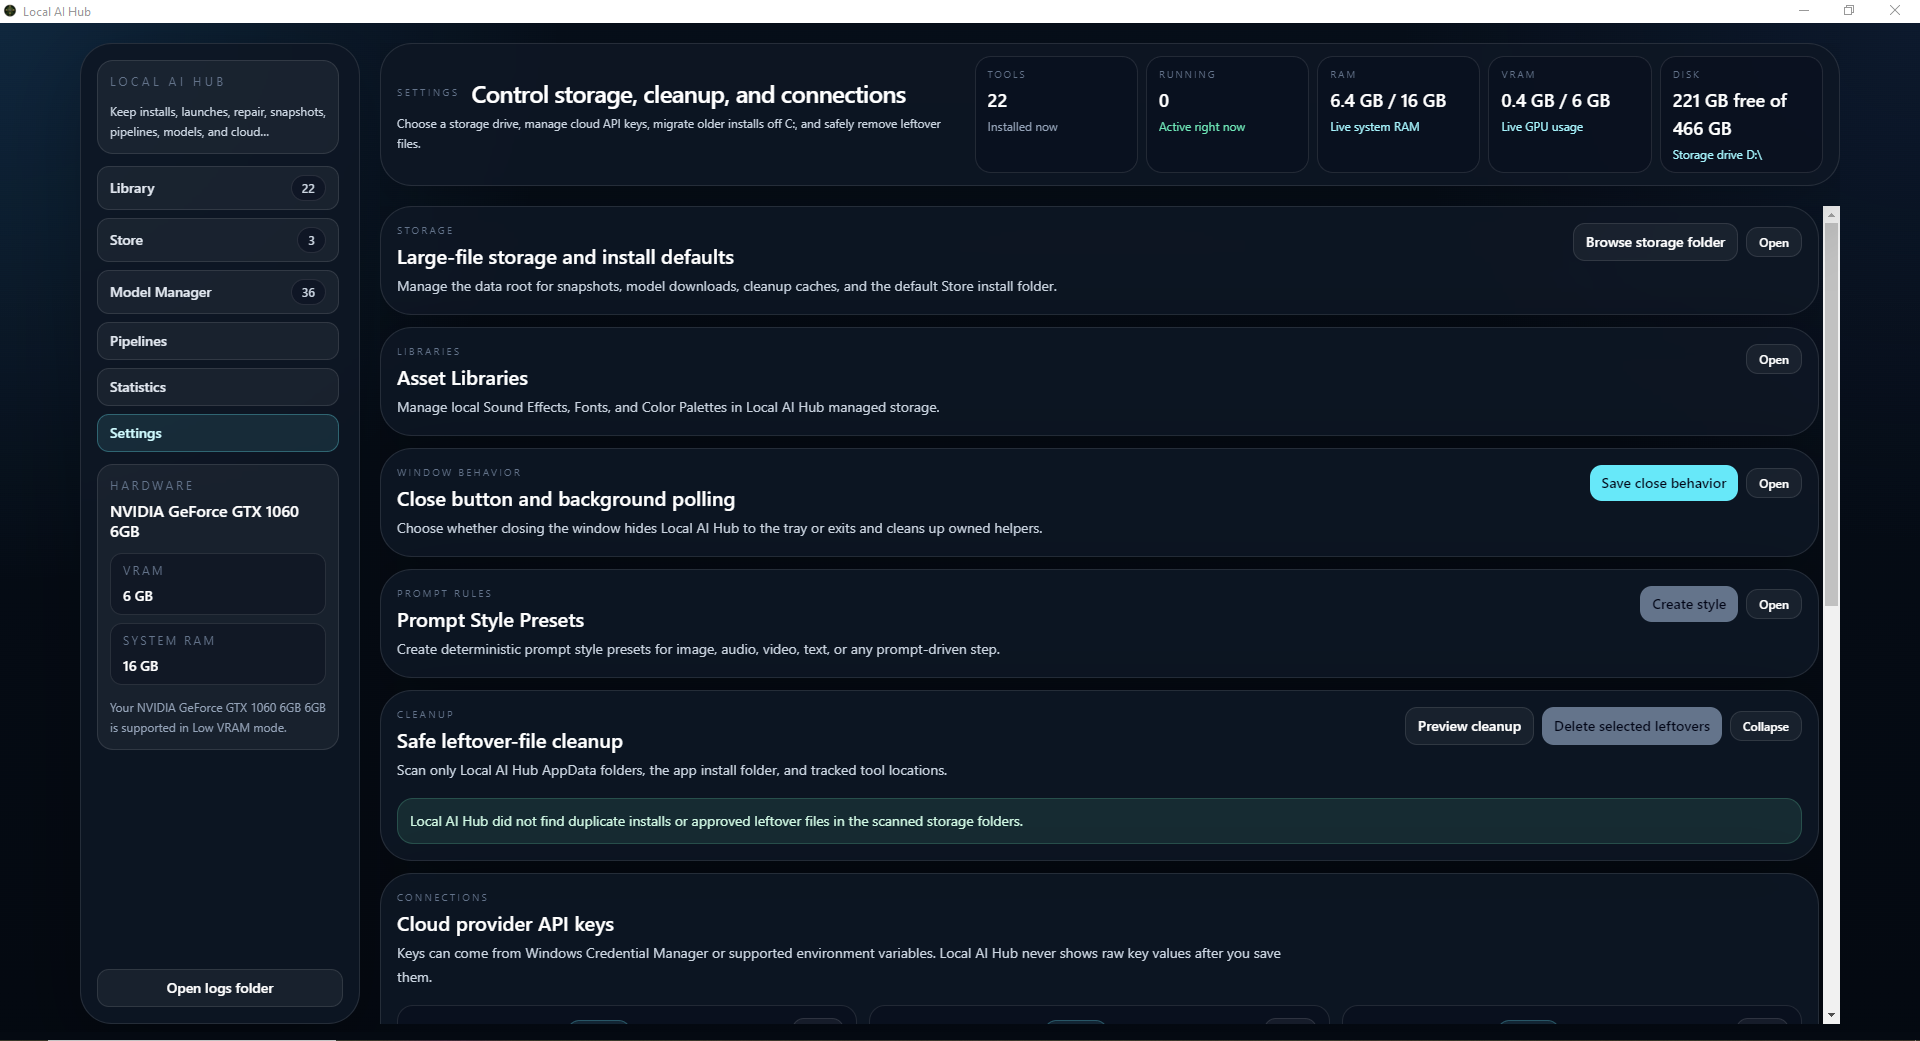
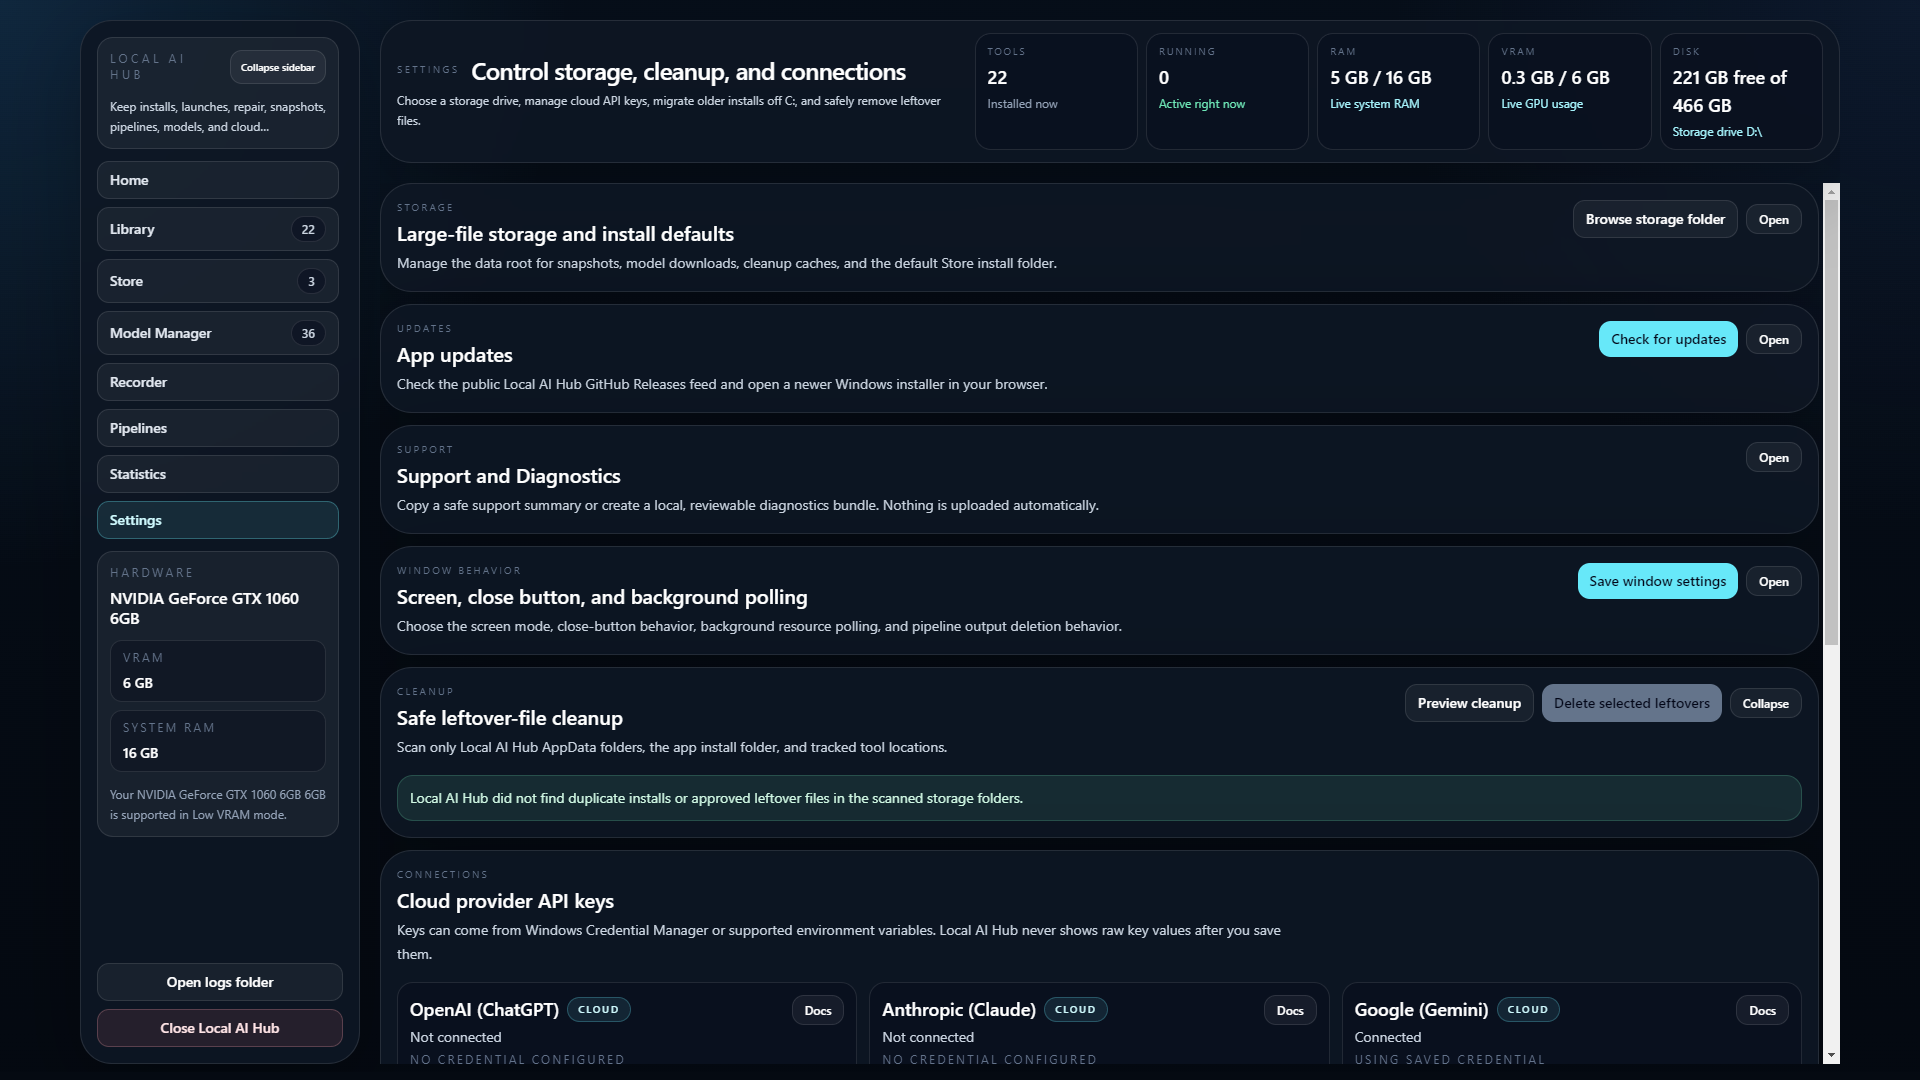
Release v0.51.0

diff --git a/docs/index.html b/docs/index.html
@@ -9,7 +9,7 @@
     >
     <meta name="color-scheme" content="dark">
     <title>Local AI Hub</title>
-    <link rel="stylesheet" href="styles.css?v=aspect-ratio-1">
+    <link rel="stylesheet" href="styles.css?v=release-0.51.0">
   </head>
   <body>
     <a class="skip-link" href="#main">Skip to content</a>
@@ -56,10 +56,10 @@
 
           <figure class="hero-shot">
             <img
-              src="screenshots/library.png"
-              alt="Local AI Hub Library showing installed tools and system resource information"
+              src="screenshots/home.png"
+              alt="Local AI Hub Home tab showing workspace status and quick actions"
               width="1920"
-              height="1042"
+              height="1080"
             >
           </figure>
         </div>
@@ -148,72 +148,48 @@
           </div>
           <div class="screenshot-grid">
             <figure>
-              <a href="screenshots/store.png">
+              <a href="screenshots/pipelines-build.png">
                 <img
-                  src="screenshots/store.png"
-                  alt="Store screen with installable tools and hardware suitability guidance"
+                  src="screenshots/pipelines-build.png"
+                  alt="Pipelines Build workspace with a guided node workflow"
                   width="1920"
-                  height="1039"
+                  height="1080"
                   loading="lazy"
                 >
               </a>
-              <figcaption>Store</figcaption>
+              <figcaption>Pipelines Build</figcaption>
             </figure>
             <figure>
               <a href="screenshots/model-manager.png">
                 <img
                   src="screenshots/model-manager.png"
-                  alt="Model Manager with local downloads and remote catalog results"
+                  alt="Model Manager with downloaded models and remote catalog results"
                   width="1920"
-                  height="1039"
+                  height="1080"
                   loading="lazy"
                 >
               </a>
               <figcaption>Model Manager</figcaption>
             </figure>
             <figure>
-              <a href="screenshots/pipelines.png">
+              <a href="screenshots/recorder.png">
                 <img
-                  src="screenshots/pipelines.png"
-                  alt="Pipelines screen with a guided node workflow"
+                  src="screenshots/recorder.png"
+                  alt="Recorder with local screen and audio capture controls"
                   width="1920"
-                  height="1041"
+                  height="1080"
                   loading="lazy"
                 >
               </a>
-              <figcaption>Pipelines</figcaption>
-            </figure>
-            <figure>
-              <a href="screenshots/statistics.png">
-                <img
-                  src="screenshots/statistics.png"
-                  alt="Statistics screen with local storage and launch activity"
-                  width="1920"
-                  height="1040"
-                  loading="lazy"
-                >
-              </a>
-              <figcaption>Statistics</figcaption>
-            </figure>
-            <figure>
-              <a href="screenshots/settings.png">
-                <img
-                  src="screenshots/settings.png"
-                  alt="Settings screen with storage, cleanup, and connection controls"
-                  width="1920"
-                  height="1041"
-                  loading="lazy"
-                >
-              </a>
-              <figcaption>Settings</figcaption>
+              <figcaption>Recorder</figcaption>
             </figure>
             <figure>
               <a href="screenshots/library.png">
                 <img
                   src="screenshots/library.png"
-                  alt="Library screen with installed local tools and provider connections"
+                  alt="Library with installed local tools and provider connections"
                   width="1920"
-                  height="1042"
+                  height="1080"
                   loading="lazy"
                 >
               </a>

diff --git a/electron/main.js b/electron/main.js
@@ -1956,24 +1956,6 @@ function registerIpcHandlers() {
       };
     }, 'Local AI Hub could not save the window settings.'),
   );
-  ipcMain.handle('settings:save-close-behavior', (_event, closeBehavior) =>
-    withPlainEnglishErrors(async () => {
-      const nextCloseBehavior = normalizeCloseBehavior(closeBehavior);
-      await updateConfig((config) => ({
-        ...config,
-        closeBehavior: nextCloseBehavior,
-      }));
-      setCloseBehaviorPreference(nextCloseBehavior);
-      return {
-        message:
-          nextCloseBehavior === 'exit'
-            ? 'Local AI Hub will fully exit when you click the close button.'
-            : 'Local AI Hub will hide to the tray when you click the close button.',
-        state: await buildAppState(),
-      };
-    }, 'Local AI Hub could not save that close-button setting.'),
-  );
-
   ipcMain.handle('settings:save-home-checklist-dismissed', (_event, dismissed) =>
     withPlainEnglishErrors(async () => {
       const homeChecklistDismissed = Boolean(dismissed);
@@ -1984,22 +1966,6 @@ function registerIpcHandlers() {
       sendAppStateUpdate({ settings: { homeChecklistDismissed } });
       return { homeChecklistDismissed };
     }, 'Local AI Hub could not save that Home checklist preference.', { refreshMode: 'none' }),
-  );
-
-  ipcMain.handle('settings:save-live-resource-polling', (_event, enabled) =>
-    withPlainEnglishErrors(async () => {
-      const liveResourcePolling = Boolean(enabled);
-      await updateConfig((config) => ({
-        ...config,
-        liveResourcePolling,
-      }));
-      return {
-        message: liveResourcePolling
-          ? 'Live RAM and VRAM polling is now on. Local AI Hub will refresh those readings more gently in the background.'
-          : 'Live RAM and VRAM polling is now off. Local AI Hub will keep a quieter snapshot instead of refreshing continuously.',
-        state: await buildAppState(),
-      };
-    }, 'Local AI Hub could not save the live usage polling setting.'),
   );
 
   ipcMain.handle('updates:check', () =>
@@ -2036,21 +2002,6 @@ function registerIpcHandlers() {
     ),
   );
 
-  ipcMain.handle('settings:save-pipeline-output-trash', (_event, enabled) =>
-    withPlainEnglishErrors(async () => {
-      const moveDeletedPipelineOutputsToRecycleBin = enabled !== false;
-      await updateConfig((config) => ({
-        ...config,
-        moveDeletedPipelineOutputsToRecycleBin,
-      }));
-      return {
-        message: moveDeletedPipelineOutputsToRecycleBin
-          ? 'Deleted pipeline outputs will move to the Recycle Bin when Windows allows it.'
-          : 'Deleted pipeline outputs will be permanently removed from disk. This cannot be easily undone.',
-        state: await buildAppState(),
-      };
-    }, 'Local AI Hub could not save the pipeline output deletion setting.'),
-  );
   ipcMain.handle('settings:get-cleanup-preview', () =>
     withPlainEnglishErrors(() => inspectCleanupTargets(), 'Local AI Hub could not scan the approved cleanup folders right now.'),
   );

diff --git a/scripts/verify-fullscreen-window-controls.js b/scripts/verify-fullscreen-window-controls.js
@@ -92,7 +92,7 @@ function verifyMainProcessContract() {
   }
 
   const saveStart = mainSource.indexOf("ipcMain.handle('settings:save-window-settings'");
-  const saveEnd = mainSource.indexOf("ipcMain.handle('settings:save-close-behavior'", saveStart);
+  const saveEnd = mainSource.indexOf("ipcMain.handle('settings:save-home-checklist-dismissed'", saveStart);
   const saveBlock = mainSource.slice(saveStart, saveEnd);
   for (const field of [
     'screenMode',
@@ -127,6 +127,14 @@ function verifyMainProcessContract() {
   assert(mainSource.includes('shouldMinimizeToTrayOnClose()'), 'Close-to-tray behavior should remain in the shared close handler.');
   assert(mainSource.includes("reportShutdownError(error, { phase: 'window-close' })"), 'Exit cleanup errors should remain on the shared close path.');
   assert(mainSource.includes("mainWindow?.webContents.send('window:screen-mode-changed'"), 'Screen-mode changes should be emitted to the renderer.');
+
+  for (const channel of [
+    'settings:save-close-behavior',
+    'settings:save-live-resource-polling',
+    'settings:save-pipeline-output-trash',
+  ]) {
+    assert(!mainSource.includes(channel), `Legacy Settings IPC channel should be removed: ${channel}`);
+  }
 }
 
 function verifyPreloadContract() {
@@ -143,6 +151,16 @@ function verifyPreloadContract() {
   }
   assert(!preloadSource.includes('executeWindowCommand'), 'Preload must not expose arbitrary window commands.');
   assert(!preloadSource.includes('window:open-url') && !preloadSource.includes('window:open-path'), 'Window controls must not expose arbitrary URLs or file paths.');
+  for (const method of ['saveCloseBehavior', 'saveLiveResourcePolling', 'savePipelineOutputTrash']) {
+    assert(!preloadSource.includes(method), `Legacy Settings preload method should be removed: ${method}`);
+  }
+  for (const channel of [
+    'settings:save-close-behavior',
+    'settings:save-live-resource-polling',
+    'settings:save-pipeline-output-trash',
+  ]) {
+    assert(!preloadSource.includes(channel), `Legacy Settings preload channel should be removed: ${channel}`);
+  }
 }
 
 function verifyRendererUx() {
@@ -161,6 +179,9 @@ function verifyRendererUx() {
   assert(appSource.includes("const SIDEBAR_COLLAPSED_STORAGE_KEY = 'local-ai-hub.sidebar-collapsed.v1';"), 'Sidebar collapse persistence should remain independent.');
   assert(appSource.includes('window.localStorage.setItem(SIDEBAR_COLLAPSED_STORAGE_KEY, String(sidebarCollapsed))'), 'Sidebar collapse state should still persist locally.');
   assert(appSource.includes("runAction('settings:save-window-settings'"), 'Renderer should use the unified save action.');
+  for (const method of ['saveCloseBehavior', 'saveLiveResourcePolling', 'savePipelineOutputTrash']) {
+    assert(!appSource.includes(`window.localAIHub.${method}`), `Renderer should not call legacy Settings method: ${method}`);
+  }
   for (const field of [
     'screenMode,',
     'closeBehavior: closeBehaviorDraft',

diff --git a/electron/preload.js b/electron/preload.js
@@ -95,12 +95,9 @@ contextBridge.exposeInMainWorld('localAIHub', {
   resumePipelineValidation: (payload) => invoke('pipelines:resume-validation', payload),
   runCleanup: () => invoke('settings:run-cleanup'),
   runPipeline: (payload) => invoke('pipelines:run', payload),
-  saveCloseBehavior: (closeBehavior) => invoke('settings:save-close-behavior', closeBehavior),
   saveWindowSettings: (payload) => invoke('settings:save-window-settings', payload),
   saveHomeChecklistDismissed: (dismissed) => invoke('settings:save-home-checklist-dismissed', dismissed),
   saveCheckForUpdatesOnLaunch: (enabled) => invoke('updates:save-check-on-launch', enabled),
-  saveLiveResourcePolling: (enabled) => invoke('settings:save-live-resource-polling', enabled),
-  savePipelineOutputTrash: (enabled) => invoke('settings:save-pipeline-output-trash', enabled),
   savePreferredInstallRoot: (targetPath) => invoke('settings:save-preferred-install-root', targetPath),
   saveModelSettings: (payload) => invoke('models:save-settings', payload),
   saveKoboldCppSetup: (payload) => invoke('koboldcpp:save-setup', payload),

diff --git a/docs/styles.css b/docs/styles.css
@@ -134,10 +134,11 @@ nav a:focus-visible,
 }
 
 .hero-grid {
-  display: grid;
-  grid-template-columns: minmax(0, 0.85fr) minmax(520px, 1.15fr);
-  align-items: center;
-  gap: 56px;
+  display: block;
+}
+
+.hero-copy {
+  max-width: 900px;
 }
 
 .eyebrow {
@@ -239,8 +240,8 @@ h3 {
 }
 
 .hero-shot {
-  width: 780px;
-  margin: 0;
+  width: min(100%, 1120px);
+  margin: 56px auto 0;
   padding: 8px;
   border: 1px solid var(--line);
   border-radius: 18px;
@@ -414,12 +415,8 @@ footer {
 }
 
 @media (max-width: 980px) {
-  .hero-grid {
-    grid-template-columns: 1fr;
-  }
-
   .hero-shot {
-    width: 100%;
+    margin-top: 44px;
   }
 
   .feature-grid {
@@ -449,8 +446,8 @@ footer {
     padding-top: 64px;
   }
 
-  .hero-grid {
-    gap: 40px;
+  .hero-shot {
+    margin-top: 36px;
   }
 
   .section {

diff --git a/README.md b/README.md
@@ -27,6 +27,7 @@ Local AI Hub is intended for Windows users who want to explore local AI without 
 - **Library:** Control installed tools and provider connections from one dashboard.
 - **Store:** Browse supported tools and review hardware-fit guidance before installing.
 - **Model Manager:** Search supported model catalogs, download model assets, and manage local copies.
+- **Recorder:** Capture the screen, system audio, microphone, or camera directly to managed local storage.
 - **Pipelines:** Create reusable, guided workflows across supported text, image, audio, and video tools.
 - **Statistics:** Review local storage use, tool launches, and resource history.
 - **Settings:** Configure storage, cleanup, asset libraries, cloud provider keys, and window behavior.
@@ -35,17 +36,25 @@ Local AI Hub is intended for Windows users who want to explore local AI without 
 
 ## Screenshots
 
-| Library | Store |
+| Home | Library |
 | --- | --- |
-| [![Local AI Hub Library showing installed tools and system resources](docs/screenshots/library.png)](docs/screenshots/library.png) | [![Local AI Hub Store showing installable tools and hardware guidance](docs/screenshots/store.png)](docs/screenshots/store.png) |
+| [![Local AI Hub Home tab showing workspace status and quick actions](docs/screenshots/home.png)](docs/screenshots/home.png) | [![Local AI Hub Library showing installed tools and system resources](docs/screenshots/library.png)](docs/screenshots/library.png) |
 
-| Model Manager | Pipelines |
+| Store | Model Manager |
 | --- | --- |
-| [![Local AI Hub Model Manager showing model catalog results](docs/screenshots/model-manager.png)](docs/screenshots/model-manager.png) | [![Local AI Hub Pipelines showing a guided workflow graph](docs/screenshots/pipelines.png)](docs/screenshots/pipelines.png) |
+| [![Local AI Hub Store showing installable tools and hardware guidance](docs/screenshots/store.png)](docs/screenshots/store.png) | [![Local AI Hub Model Manager showing downloaded models and catalog results](docs/screenshots/model-manager.png)](docs/screenshots/model-manager.png) |
 
-| Statistics | Settings |
+| Recorder | Pipelines Build |
 | --- | --- |
-| [![Local AI Hub Statistics showing local storage and launch activity](docs/screenshots/statistics.png)](docs/screenshots/statistics.png) | [![Local AI Hub Settings showing storage, cleanup, and connection controls](docs/screenshots/settings.png)](docs/screenshots/settings.png) |
+| [![Local AI Hub Recorder showing local screen and audio capture controls](docs/screenshots/recorder.png)](docs/screenshots/recorder.png) | [![Local AI Hub Pipelines Build workspace showing a guided node workflow](docs/screenshots/pipelines-build.png)](docs/screenshots/pipelines-build.png) |
+
+| Pipelines Outputs | Statistics |
+| --- | --- |
+| [![Local AI Hub Pipelines Outputs workspace showing a saved video result](docs/screenshots/pipelines-outputs.png)](docs/screenshots/pipelines-outputs.png) | [![Local AI Hub Statistics showing local storage and launch activity](docs/screenshots/statistics.png)](docs/screenshots/statistics.png) |
+
+| Settings |
+| --- |
+| [![Local AI Hub Settings showing storage, cleanup, connections, and window controls](docs/screenshots/settings.png)](docs/screenshots/settings.png) |
 
 ## Quick Start
 
@@ -121,7 +130,7 @@ The full package build writes local artifacts to the ignored `release/` director
 
 `npm run verify:wizard-live` runs the Pipeline Wizard live provider verifier. This is an opt-in manual check only: it uses saved live provider credentials and may consume quota or hit provider rate limits. Keep normal release, push, npm verify, and CI-style validation on mocked/offline wizard verifiers such as `node scripts/verify-pipeline-wizard.js` and `node scripts/verify-pipeline-wizard-lifecycle.js`.
 
-## Untested Features as of v0.50.0
+## Untested Features as of v0.51.0
 
 The following features are implemented and covered by automated verification where practical, but have not yet been validated with real-world hardware, local model assets, or live cloud-provider accounts. Treat them as experimental until they are manually tested.
 

diff --git a/release-notes/v0.51.0.md b/release-notes/v0.51.0.md
@@ -1,0 +1,48 @@
+# Local AI Hub v0.51.0
+
+Local AI Hub 0.51.0 completes a maintenance cleanup after Window Settings unification and refreshes the project documentation with current application screenshots.
+
+## Highlights
+
+- Removed the legacy Settings IPC and preload methods for close behavior, live resource polling, and pipeline output deletion.
+- Kept `saveWindowSettings` as the sole save path for Window behavior settings.
+- Tightened fullscreen and Window Settings verifier coverage to reject the removed legacy methods, channels, and renderer calls.
+- Preserved existing user-facing Window Settings behavior; this maintenance cleanup does not change how the controls work.
+- Updated the README with nine current screenshots, including Home, Recorder, Pipelines Build, and Pipelines Outputs.
+- Updated the README Feature Overview to include Recorder.
+- Updated the landing page hero to use the Home screenshot beneath the main hero text.
+- Reduced the landing page screenshot gallery to Pipelines Build, Model Manager, Recorder, and Library.
+- Kept the demo video update separate from this release.
+
+## Validation
+
+Release validation includes the production UI build, Windows package build, manifest and launch-mode checks, the requested offline verifier suite, available media regression, asset-library, and prompt-style checks, static landing-page validation, README image/link validation, and `git diff --check`.
+
+Live provider-backed Pipeline Wizard validation was intentionally not run because it is an opt-in check that can consume provider quota.
+
+## Known Limitations
+
+- No demo video embed is included yet.
+- Live provider-backed wizard validation was not run for this release.
+- The existing Vite large Pipeline chunk warning may still appear.
+- The existing Whisper integration audit note may still exist if unchanged.
+
+## Download
+
+1. Open the Assets section below.
+2. Download `LocalAIHub-Setup-0.51.0.exe`.
+3. Run the installer and follow the Windows instructions.
+
+The `.exe` is the installer. The `.blockmap` and `latest.yml` files support the application's release and update flow.
+
+## Windows SmartScreen and Unsigned Installer
+
+Local AI Hub is currently distributed as an unsigned Windows app. Windows SmartScreen, browsers, or antivirus software may warn before the installer runs.
+
+Download the installer only from the official Local AI Hub GitHub release. If SmartScreen appears, choose `More info`, verify that the file is the release asset you intended to download, and select `Run anyway` only if you trust the source and want to continue.
+
+## Release Assets
+
+- `LocalAIHub-Setup-0.51.0.exe`
+- `LocalAIHub-Setup-0.51.0.exe.blockmap`
+- `latest.yml`
